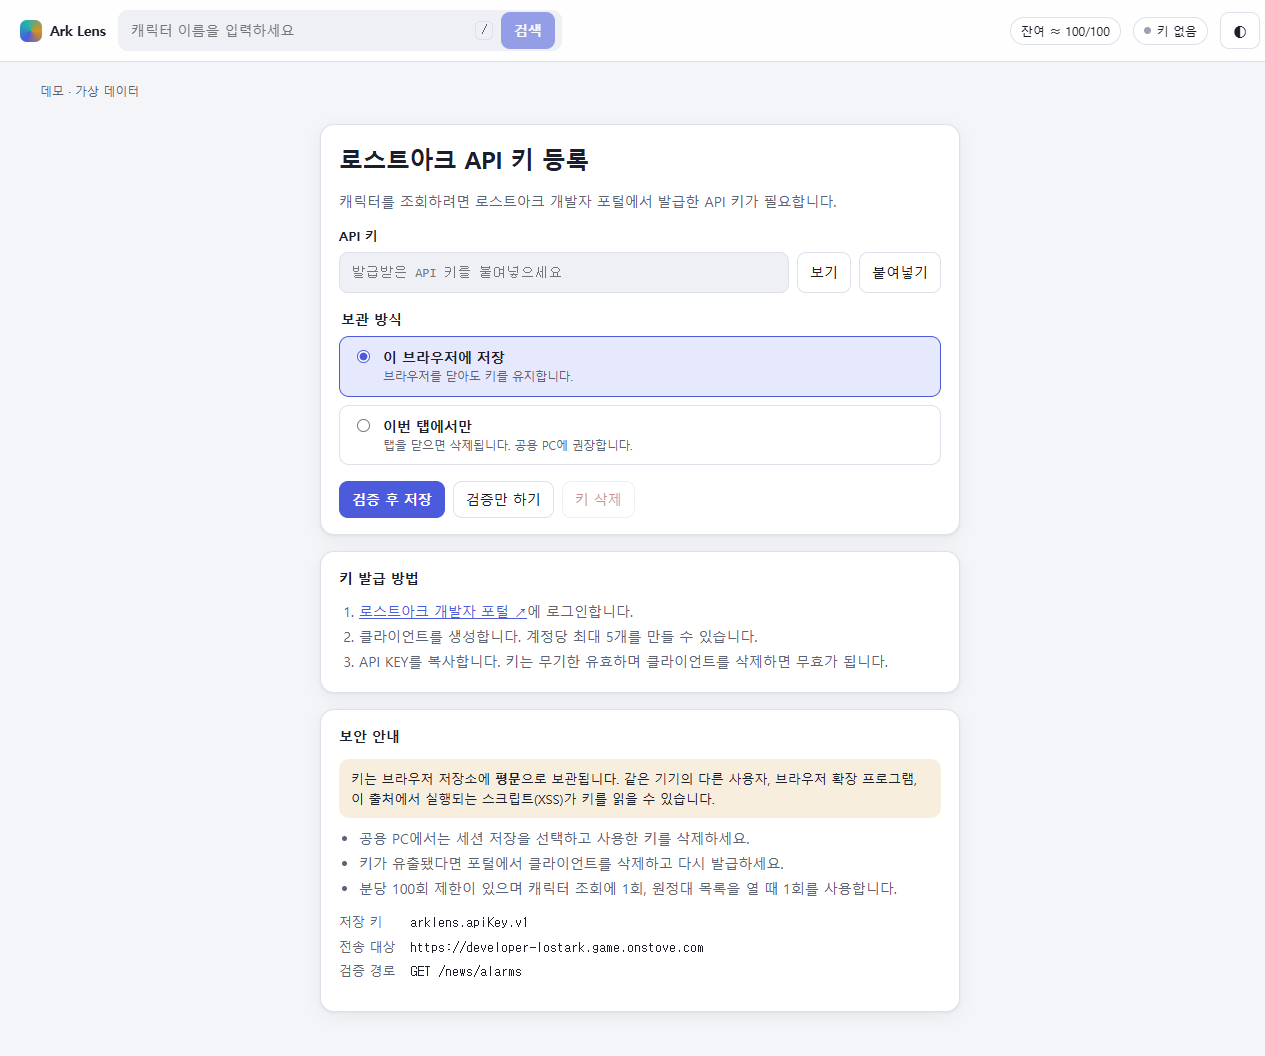
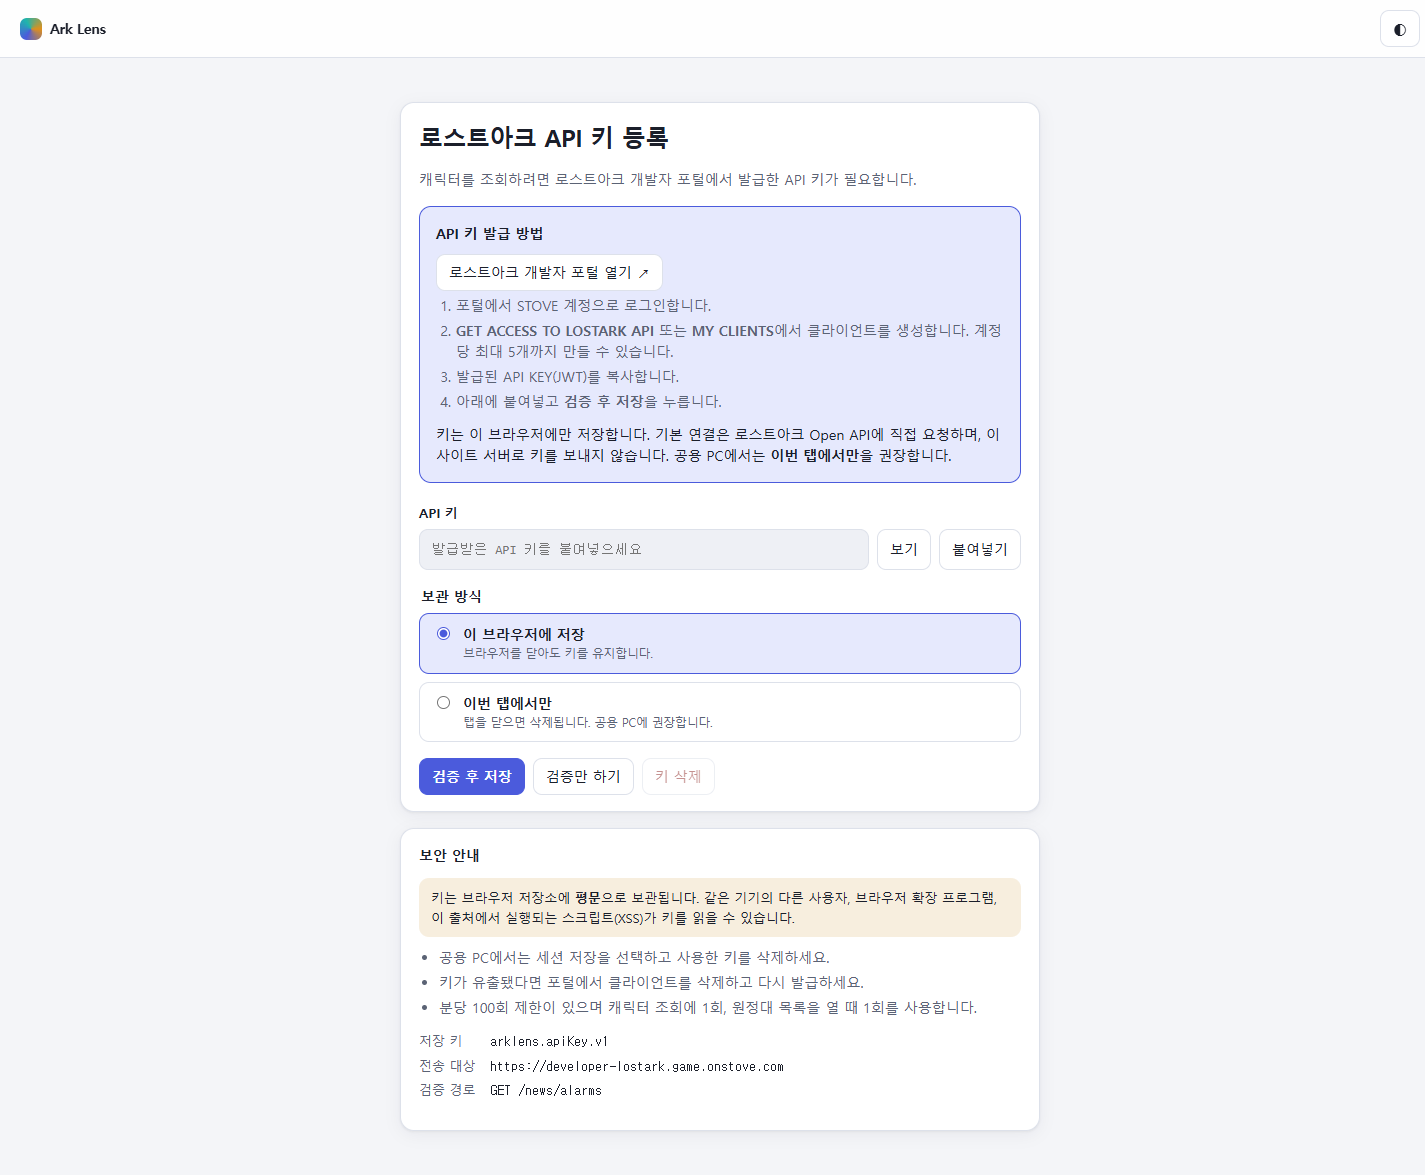
Onboard Ark Lens visitors with their own API key

diff --git a/tests/app.test.tsx b/tests/app.test.tsx
@@ -103,6 +103,53 @@ describe("MSW transport", () => {
   });
 });
 
+describe("first visit onboarding", () => {
+  it("opens key settings from the home page", () => {
+    go("", false);
+    expect(
+      screen.getByRole("heading", { name: "로스트아크 API 키 등록" }),
+    ).toBeTruthy();
+    expect(location.hash).toBe("#/settings/key");
+    expect(screen.queryByRole("searchbox")).toBeNull();
+  });
+
+  it.each([hash, hash.slice(1)])(
+    "returns to the exact character URL from %s after validation",
+    async (route) => {
+      const originalUrl = route.startsWith("#")
+        ? "/" + route + "?tab=gems#detail"
+        : route + "?tab=gems#detail";
+      const armoryRequest = vi.fn(() => HttpResponse.json(armory));
+      server.use(
+        http.get(API_BASE + "/news/alarms", () => HttpResponse.json([])),
+        http.get(endpoint, armoryRequest),
+      );
+      history.replaceState(null, "", originalUrl);
+      render(<ArkLens />);
+      expect(
+        screen.getByRole("heading", { name: "로스트아크 API 키 등록" }),
+      ).toBeTruthy();
+      expect(location.pathname + location.hash).toBe(
+        route.startsWith("#") ? "/#/settings/key" : "/settings/key",
+      );
+      expect(armoryRequest).not.toHaveBeenCalled();
+      fireEvent.change(screen.getByLabelText("API 키", { selector: "input" }), {
+        target: { value: "Bearer <" + token + ">" },
+      });
+      fireEvent.click(screen.getByRole("button", { name: "검증 후 저장" }));
+      expect(
+        await screen.findByRole("heading", { name: /은하수바리케이드/ }),
+      ).toBeTruthy();
+      expect(location.pathname + location.search + location.hash).toBe(
+        originalUrl,
+      );
+      expect(screen.getByRole("status").textContent).toMatch(
+        /검증 성공.*…alue/,
+      );
+    },
+  );
+});
+
 describe("character views with MSW", () => {
   it.each([
     [401, "API 키가 거부되었습니다"],
@@ -128,26 +175,6 @@ describe("character views with MSW", () => {
       countdown: Boolean(alert.querySelector("progress")),
     }).toMatchSnapshot();
     if (status === 401) expect(getKey()?.value.status).toBe("rejected");
-  });
-  it("preserves a share link without a key and returns to it after validation", async () => {
-    server.use(
-      http.get(API_BASE + "/news/alarms", () => HttpResponse.json([])),
-      http.get(endpoint, () => HttpResponse.json(armory)),
-    );
-    go(hash, false);
-    expect(
-      screen.getByRole("heading", { name: "API 키가 필요합니다" }),
-    ).toBeTruthy();
-    expect(location.hash).toBe(hash);
-    fireEvent.click(screen.getByRole("link", { name: "키 등록하기" }));
-    fireEvent.change(screen.getByLabelText("API 키", { selector: "input" }), {
-      target: { value: "Bearer <" + token + ">" },
-    });
-    fireEvent.click(screen.getByRole("button", { name: "검증 후 저장" }));
-    expect(
-      await screen.findByRole("heading", { name: /은하수바리케이드/ }),
-    ).toBeTruthy();
-    expect(screen.getByRole("status").textContent).toMatch(/검증 성공.*…alue/);
   });
   it("defers siblings, reuses cached results and switches equipment tabs with the keyboard", async () => {
     let armoryCalls = 0;

diff --git a/src/KeySettings.tsx b/src/KeySettings.tsx
@@ -19,7 +19,7 @@ export default function KeySettings() {
   const location = useLocation();
   const returnTo =
     typeof location.state?.returnTo === "string" &&
-    location.state.returnTo.startsWith("/c/")
+    /^\/(?![/\\])/.test(location.state.returnTo)
       ? location.state.returnTo
       : "/";
   const [input, setInput] = useState("");
@@ -128,6 +128,34 @@ export default function KeySettings() {
           캐릭터를 조회하려면 로스트아크 개발자 포털에서 발급한 API 키가
           필요합니다.
         </p>
+        <section className="key-guide" aria-labelledby="key-guide-title">
+          <h2 id="key-guide-title">API 키 발급 방법</h2>
+          <a
+            className="btn"
+            href={PORTAL}
+            target="_blank"
+            rel="noopener noreferrer"
+          >
+            로스트아크 개발자 포털 열기 ↗
+          </a>
+          <ol className="steps">
+            <li>포털에서 STOVE 계정으로 로그인합니다.</li>
+            <li>
+              <strong>GET ACCESS TO LOSTARK API</strong> 또는{" "}
+              <strong>MY CLIENTS</strong>에서 클라이언트를 생성합니다. 계정당
+              최대 5개까지 만들 수 있습니다.
+            </li>
+            <li>발급된 API KEY(JWT)를 복사합니다.</li>
+            <li>
+              아래에 붙여넣고 <strong>검증 후 저장</strong>을 누릅니다.
+            </li>
+          </ol>
+          <p>
+            키는 이 브라우저에만 저장합니다. 기본 연결은 로스트아크 Open API에
+            직접 요청하며, 이 사이트 서버로 키를 보내지 않습니다. 공용 PC에서는{" "}
+            <strong>이번 탭에서만</strong>을 권장합니다.
+          </p>
+        </section>
         <form
           className="key-form"
           onSubmit={(event) => {
@@ -285,21 +313,6 @@ export default function KeySettings() {
           )}
         </form>
       </section>
-      <Card title="키 발급 방법">
-        <ol className="steps">
-          <li>
-            <a href={PORTAL} target="_blank" rel="noopener noreferrer">
-              로스트아크 개발자 포털 ↗
-            </a>
-            에 로그인합니다.
-          </li>
-          <li>클라이언트를 생성합니다. 계정당 최대 5개를 만들 수 있습니다.</li>
-          <li>
-            API KEY를 복사합니다. 키는 무기한 유효하며 클라이언트를 삭제하면
-            무효가 됩니다.
-          </li>
-        </ol>
-      </Card>
       <Card title="보안 안내">
         <div className="notice warn">
           <span>

diff --git a/src/main.tsx b/src/main.tsx
@@ -1,6 +1,8 @@
 import { useEffect, useRef, useState } from "react";
 import { createRoot } from "react-dom/client";
 import {
+  BrowserRouter,
+  createPath,
   HashRouter,
   Link,
   Navigate,
@@ -90,10 +92,20 @@ function TopBar({
 }) {
   const { key, proxyActive, disableProxy } = useSession();
   const now = useClock();
+  if (!key)
+    return (
+      <header className="topbar">
+        <span className="logo">
+          <i aria-hidden="true" />
+          <b>Ark Lens</b>
+        </span>
+        <span className="spacer" />
+        <ThemeToggle />
+      </header>
+    );
   const rate = rateGate.snapshot(now);
-  const status = !key
-    ? "키 없음"
-    : key.value.status === "rejected"
+  const status =
+    key.value.status === "rejected"
       ? "키 거부됨"
       : key.value.status === "unverified"
         ? "미검증 키"
@@ -133,9 +145,9 @@ function TopBar({
         <span
           className={
             "dot " +
-            (key?.value.status === "rejected"
+            (key.value.status === "rejected"
               ? "bad"
-              : key?.value.status !== "ok"
+              : key.value.status !== "ok"
                 ? "off"
                 : "")
           }
@@ -192,6 +204,14 @@ function App() {
     /* Preserve malformed input as text. */
   }
   const settings = location.pathname === "/settings/key";
+  if (!key && !settings)
+    return (
+      <Navigate
+        to="/settings/key"
+        replace
+        state={{ returnTo: createPath(location) }}
+      />
+    );
   function search(value: string) {
     setRecent(
       [value, ...recent.filter((entry) => entry !== value)].slice(0, 10),
@@ -224,8 +244,8 @@ function App() {
             }
             onSearch={search}
           />
-        ) : location.pathname !== "/" || !key ? (
-          <Navigate to={key ? "/" : "/settings/key"} replace />
+        ) : location.pathname !== "/" ? (
+          <Navigate to="/" replace />
         ) : (
           <div className="card empty-home">
             <h1>로스트아크 캐릭터 조회</h1>
@@ -240,13 +260,17 @@ function App() {
 }
 
 export function ArkLens() {
+  // Keep existing hash links and support direct paths served by the SPA fallback.
+  const [Router] = useState(() =>
+    window.location.pathname === "/" ? HashRouter : BrowserRouter,
+  );
   return (
     <QueryClientProvider client={queryClient}>
-      <HashRouter>
+      <Router>
         <SessionProvider>
           <App />
         </SessionProvider>
-      </HashRouter>
+      </Router>
     </QueryClientProvider>
   );
 }

diff --git a/src/styles/app.css b/src/styles/app.css
@@ -68,6 +68,22 @@ button:disabled {
   display: grid;
   gap: 16px;
 }
+.key-guide {
+  margin: 16px 0 20px;
+  padding: 16px;
+  border: 1px solid var(--accent);
+  border-radius: 12px;
+  background: var(--accent-soft);
+}
+.key-guide h2 {
+  margin: 0 0 10px;
+}
+.key-guide .btn {
+  display: inline-flex;
+}
+.key-guide p {
+  margin: 12px 0 0;
+}
 .key-form fieldset {
   border: 0;
   margin: 0;
